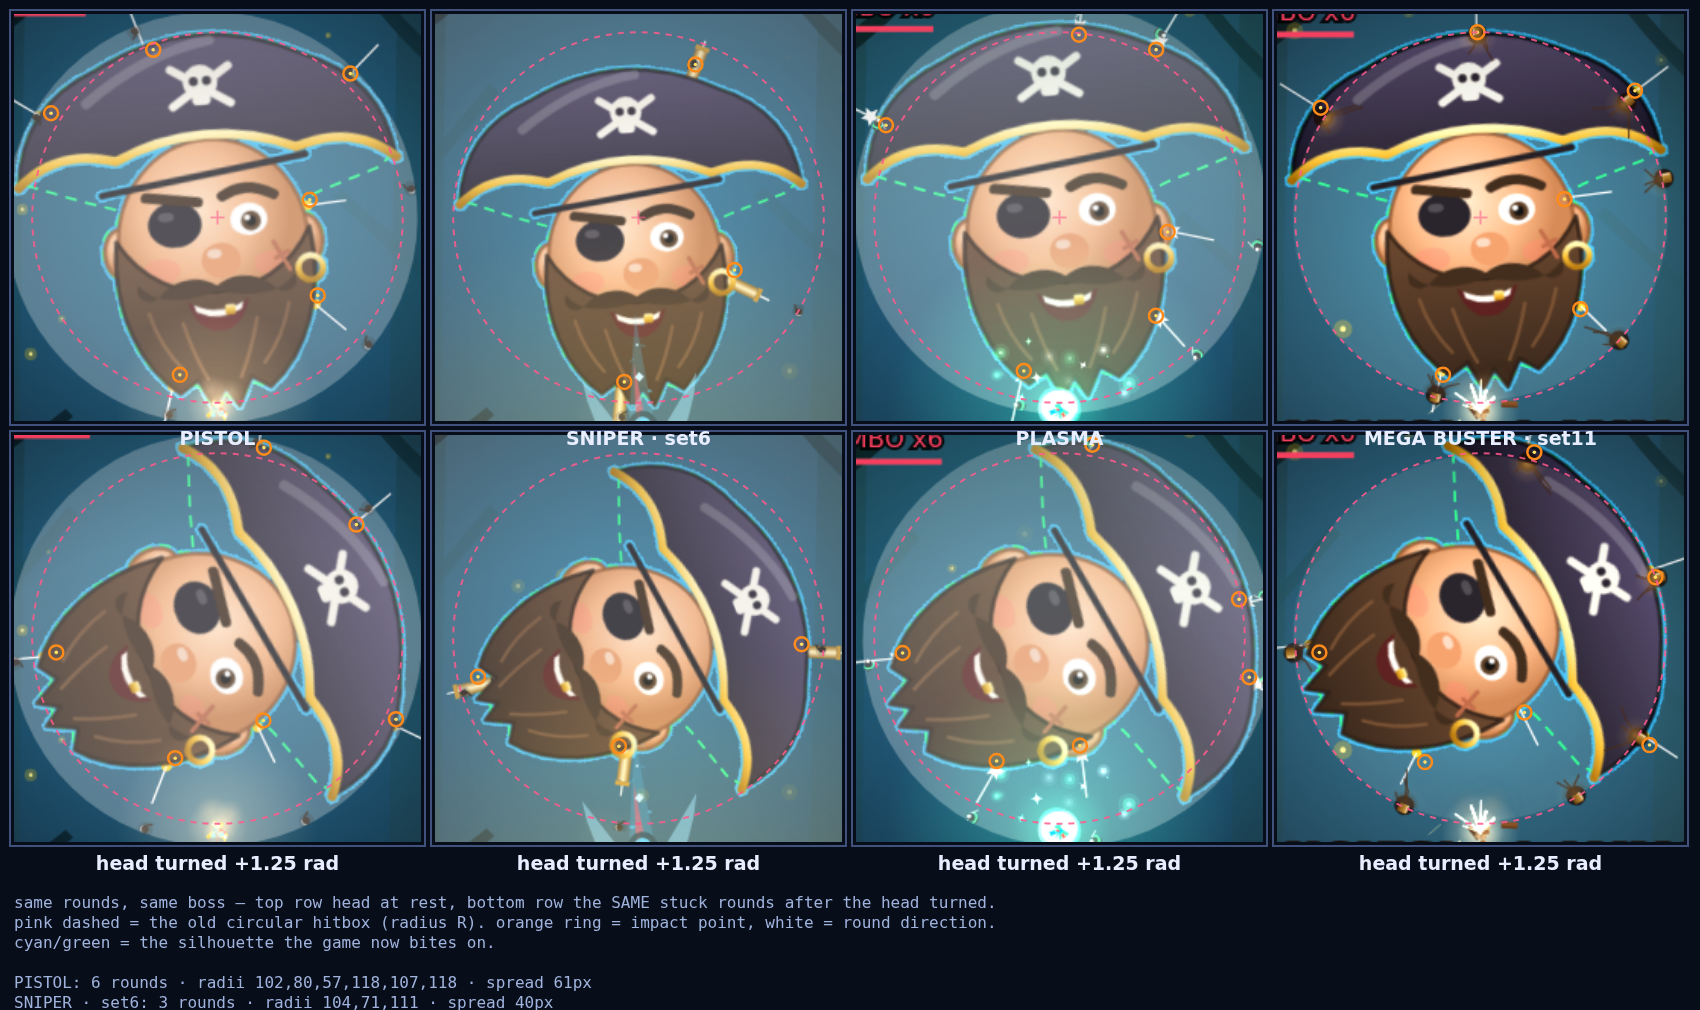
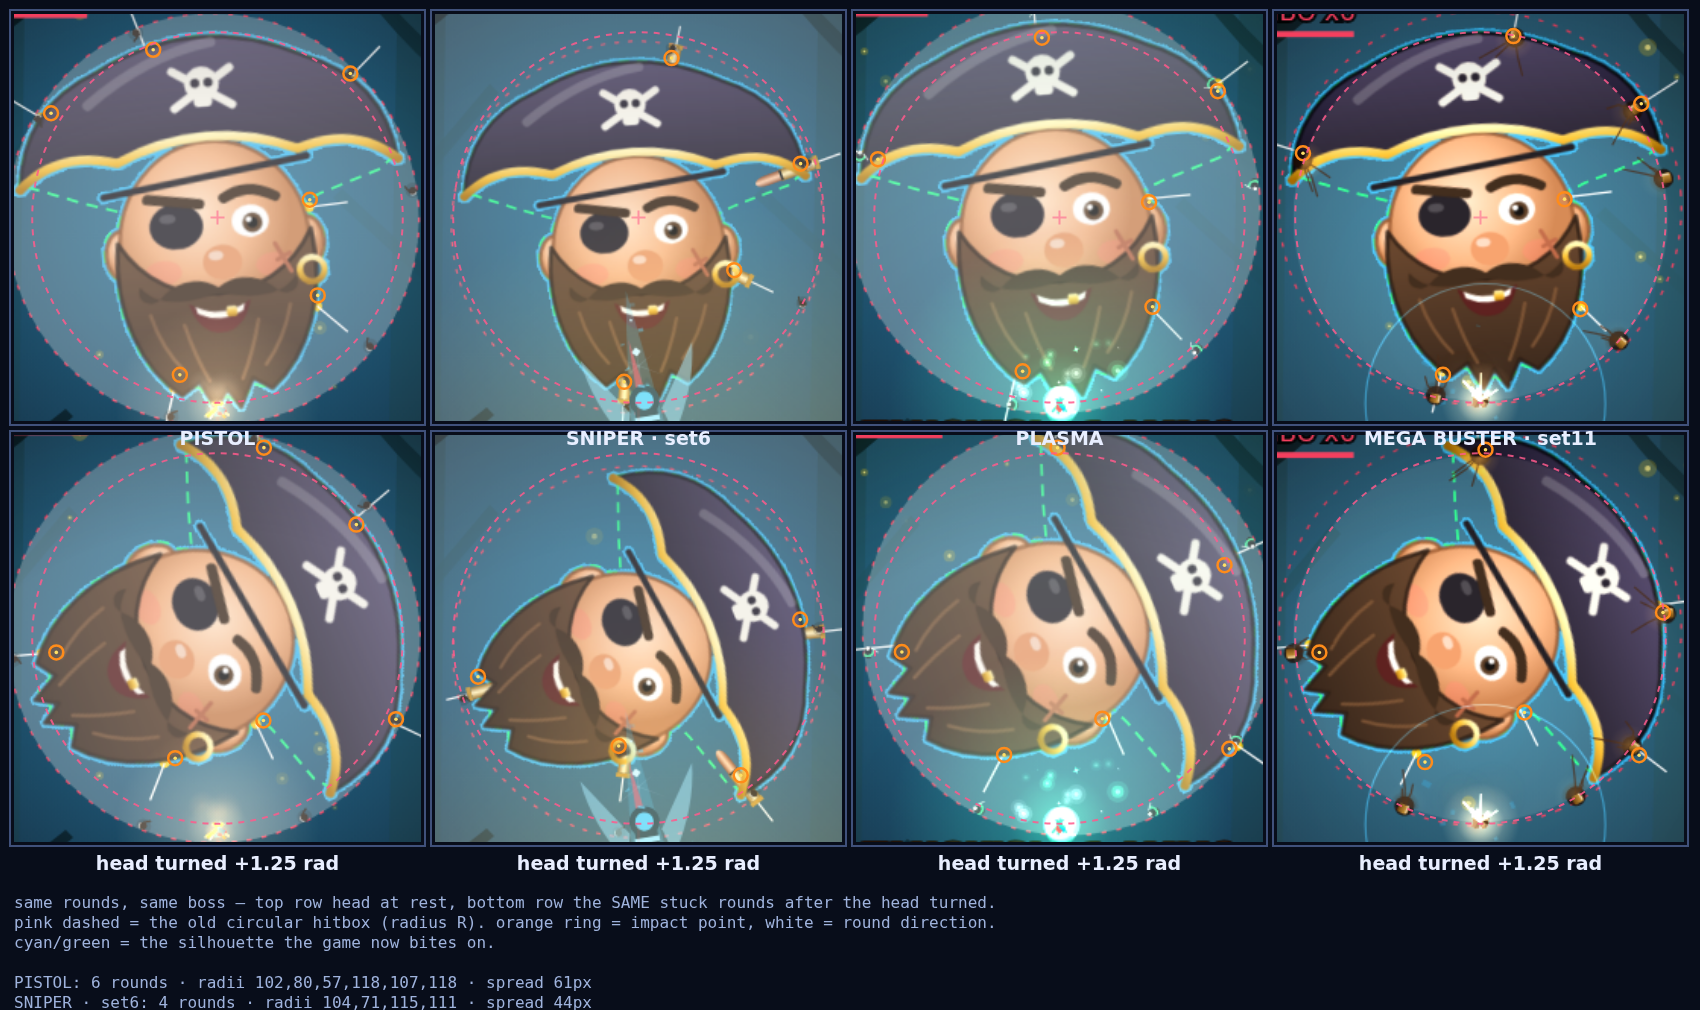
fix(sga): the last circle in the boss' stuck art is gone
- slide 2's artist placed every pin of every branch (black hole, shark, stone,
  drop, rainbow bolt, shell, grenade, rocket) at one radius: it now carries the
  depth the round actually bit (SetTwoPin.r from px/py).
- Grow Ray: the head grows under rounds that are already in it; their
  artwork-local spots now scale with the radius, and the blit pad scales with
  it too, so the mask frame and the drawn frame stay the same frame.
- stuck rounds sink 72% on a boss (Perfect Shot hangs 28% out, edgeTop bh*.28),
  so a round reads as planted in the head instead of resting on a rim.
- ?hitbox=1 now also draws the OLD circular hitbox in red, next to the cyan
  silhouette, so the difference is visible in the running game.
- audit: tools/auditBossAttachment.ts fires 102 weapons x 5 art variants
  (510 configs) into the head: 0 landings off the drawing.
- tests 541/541; proof parity-proof/gameA-boss-embed-before-after.png

diff --git a/tools/auditBossAttachment.ts b/tools/auditBossAttachment.ts
@@ -1,0 +1,102 @@
+/**
+ * Every weapon x every art effect, fired into a boss: does anything land off the
+ * drawing? Run `npx tsx tools/auditBossAttachment.ts [from] [to]` in slices to
+ * keep memory flat; the whole list is 102 weapons x 5 art variants.
+ */
+import { createCanvas, Path2D, loadImage } from '@napi-rs/canvas';
+import { DOMParser } from '@xmldom/xmldom';
+import React from 'react';
+import { renderToStaticMarkup } from 'react-dom/server';
+import { HeadArt } from '../src/games/perfect-shot/play/HeadArt';
+import { Game } from '../src/games/gunhit/game/Game';
+import { installSilentAudio } from './supportAudioSilent';
+import { setGunEffect, setGunVariant } from '../src/games/gunhit/game/art/gunVariants';
+
+const g = globalThis as unknown as Record<string, any>;
+g.Path2D = Path2D; g.DOMParser = DOMParser;
+g.HTMLCanvasElement ??= createCanvas(2, 2).constructor;
+g.document = { createElement: (t: string) => (t === 'canvas' ? createCanvas(64, 64) : { style: {} }), visibilityState: 'visible', addEventListener: () => {} };
+g.Image ??= class { width = 1; height = 1; set src(_s: string) {} };
+g.requestAnimationFrame = () => 0; g.cancelAnimationFrame = () => {};
+installSilentAudio();
+g.window = Object.assign(g.window ?? {}, {
+  setTimeout, clearTimeout, setInterval: () => 0, clearInterval: () => undefined,
+  addEventListener: () => undefined, removeEventListener: () => undefined,
+  devicePixelRatio: 1, innerWidth: 420, innerHeight: 750,
+  matchMedia: () => ({ matches: false, addEventListener: () => {}, removeEventListener: () => {} }),
+});
+
+const IDS: string[] = ['pistol','ak47','nail','crossbow','plasma','laser','fish','rpg','cricket','electro','bazooka','freeze','golden','blackhole','slingshot','blowgun','shotgun','soaker','snowball','sniper','flamethrower','bubble','bamboo','banana','harpoon','chicken','confetti','seed','pizza','minigun','railgun','magnet','shrink','grow','pirate','card','dragon','gravity','honey','coconut','angklung','bee','yoyo','sakura','acid','keris','firework','anchor','shark','ghost','ufo','rainbow','meteor','diamond','moonbeam','storm','pencil','sandal','paintball','wand','ruby','emerald','sapphire','crystal','beerifle','buster','holy','unicorn','obliterator','coingun','photon_saber','gauntlet_cannon','ironman_hand','pulse_rifle','cryo_blaster','hyperdrive','quantum_destabilizer','blaster','xeno','dora','pred','longbow','mp5','tesla_rifle','ion_smg','phaser','yautja','identity_disc','proton_pack','mega_buster','harmonic_disruptor','absolute_zero','helios_flare','chrono_rifle','orbital_beacon','helix_pulsar','singularity','prism_lance','nano_swarm','heat_ray'];
+const EFFECTS = ['original', 'new', 'set7', 'set9', 'set11'];
+const W = 420, H = 750;
+const svg = renderToStaticMarkup(React.createElement(HeadArt, { kind: 'pirate' as any }));
+const image = await loadImage(Buffer.from(svg));
+
+function make() {
+  const cv = createCanvas(W, H);
+  const ctx = cv.getContext('2d');
+  const shim = { width: W, height: H, style: {}, getBoundingClientRect: () => ({ width: W, height: H, left: 0, top: 0 }), getContext: () => ctx, addEventListener: () => {}, removeEventListener: () => {} } as unknown as HTMLCanvasElement;
+  const game = new Game(shim, { onGameOver: () => {} } as any) as unknown as Record<string, any>;
+  game.setWheelArtSource({ keyFor: () => 'boss|pirate', get: () => image, request: () => {}, markup: () => svg });
+  game.startAtLevel(5);
+  game.setWheelArt('boss|pirate', image, svg);
+  game.state = 'play';
+  for (let i = 0; i < 200; i++) game.update(1 / 60);
+  game.items = []; game.projs = [];
+  game.bossMaxHp = 1e9; game.bossHp = 1e9; game.level.ammo = 1e5;
+  return game;
+}
+function inkOf(game: any) {
+  const mask = game.artMask; const R = game.level.radius;
+  return (lx: number, ly: number) => {
+    const u = Math.floor(((lx / R / mask.span) + 1) * 0.5 * mask.size);
+    const v = Math.floor(((ly / R / mask.span) + 1) * 0.5 * mask.size);
+    if (u < 1 || v < 1 || u >= mask.size - 1 || v >= mask.size - 1) return false;
+    for (let dy = -1; dy <= 1; dy++) for (let dx = -1; dx <= 1; dx++) {
+      if (mask.alpha[(v + dy) * mask.size + (u + dx)] > 20) return true;
+    }
+    return false;
+  };
+}
+
+const bad: string[] = [];
+const quiet: string[] = [];
+let rows = 0;
+const from = Number(process.argv[2] ?? 0);
+const to = Number(process.argv[3] ?? IDS.length);
+for (const id of IDS.slice(from, to)) {
+  const game = make();
+  game.setWeapon(id);
+  for (const effect of EFFECTS) {
+    setGunVariant(id as never, 'original');
+    setGunEffect(id as never, effect as never);
+    game.items = [];
+    game.projs = [];
+    const ink = inkOf(game);
+    const radii: number[] = [];
+    const off: string[] = [];
+    for (const turn of [0, 1.2, 2.4, 3.6]) {
+      game.rot = turn;
+      const before = new Set(game.items as any[]);
+      for (let f = 0; f < 110; f++) {
+        game.ammoLeft = 99;
+        if (f % 10 === 0) game.press();
+        if (f % 10 === 7) game.onRelease();
+        game.update(1 / 60);
+        if ((game.items as any[]).some((it) => !before.has(it) && it.px !== undefined)) break;
+      }
+      game.onRelease();
+      const fresh = (game.items as any[]).find((it: any) => !before.has(it) && it.px !== undefined);
+      if (!fresh) continue;
+      radii.push(Math.round(Math.hypot(fresh.px, fresh.py)));
+      if (!ink(fresh.px, fresh.py)) off.push(`${id}/${effect}`);
+    }
+    rows++;
+    if (!radii.length) quiet.push(`${id}/${effect}`);
+    if (off.length) bad.push(`${id}/${effect} @ ${off.join(',')}`);
+  }
+  game.destroy();
+}
+console.log(`rows ${rows}  rounds-fired rows ${rows - quiet.length}  silent ${quiet.length}`);
+console.log('silent:', quiet.join(' '));
+console.log('off-drawing:', bad.length ? bad.join(' | ') : 'NONE');

diff --git a/src/games/gunhit/game/Game.ts b/src/games/gunhit/game/Game.ts
@@ -1447,6 +1447,8 @@ export class Game {
   private burnTick = 0;
   private spikeOffT = 0;
   private targetR = 0;
+  /** Radius the face bitmap was baked at (`buildFace`), for pad scaling. */
+  private faceBaseR = 0;
   private faceR = 106;
   private portals: Portal[] = [];
   private glitchT = 0;
@@ -2891,6 +2893,10 @@ export class Game {
     const R = this.level.radius;
     const S = this.faceScale;
     const pad = this.level.boss ? 40 : 4;
+    // The bitmap is baked at this radius. The Grow Ray moves `level.radius`
+    // afterwards, so the geometry (mask, contour, impact points) is only in
+    // agreement with the art while the pad scales with it — see `facePadNow()`.
+    this.faceBaseR = R;
     const size = (R + pad) * 2;
     // Game B's own wheel artwork wins whenever it has been rasterised; the
     // canvas faces below stay as the instant fallback for the first frames.
@@ -3033,6 +3039,16 @@ export class Game {
       c.stroke(this.maskOutline);
       c.restore();
     }
+    // The old circular hitbox, for comparison: if any round sat on this ring the
+    // silhouette test would be broken. Nothing is ever placed on it.
+    c.save();
+    c.setLineDash([3, 6]);
+    c.strokeStyle = 'rgba(255,64,96,0.9)';
+    c.lineWidth = 1.2;
+    c.beginPath();
+    c.arc(0, 0, R, 0, TAU);
+    c.stroke();
+    c.restore();
     // the contour everything else uses
     c.strokeStyle = mask ? 'rgba(34,255,136,0.95)' : 'rgba(255,64,64,0.95)';
     c.lineWidth = 1.6;
@@ -4109,6 +4125,18 @@ export class Game {
    * spark, crack and burst is placed through this, so effects land on the
    * drawing instead of on a circle of radius R.
    */
+  /**
+   * The padding the face bitmap is blitted with, scaled by the same factor the
+   * wheel itself has grown. Keeping the pad proportional is what makes the art
+   * frame (mask, contour, impact points) equal to the drawn frame at any radius:
+   * the grow ray scales the head, and the collision scales with it.
+   */
+  private facePadNow(R = this.level.radius): number {
+    const pad = this.level.boss ? 40 : 4;
+    const base = this.faceBaseR || R;
+    return base > 0 ? pad * (R / base) : pad;
+  }
+
   private artToWorld(lx: number, ly: number) {
     let x = lx;
     let y = ly;
@@ -6591,7 +6619,21 @@ export class Game {
     }
     // grow ray
     if (this.targetR && this.state !== 'clear') {
+      const before = this.level.radius;
       this.level.radius += (this.targetR - this.level.radius) * Math.min(1, dt * 8);
+      const k = this.level.radius / before;
+      // The head has grown under the rounds that are already in it: their
+      // artwork-local spots (px/py) are measured in this radius' units, so they
+      // ride out with the drawing instead of drifting off it.
+      if (Math.abs(k - 1) > 1e-6) {
+        for (const it of this.items) {
+          if (it.px !== undefined && it.py !== undefined) {
+            it.px *= k;
+            it.py *= k;
+          }
+          if (it.r !== undefined) it.r *= k;
+        }
+      }
     }
     for (let i = this.portals.length - 1; i >= 0; i--) {
       this.portals[i].life -= dt;
@@ -8614,8 +8656,11 @@ export class Game {
           const sc = it.scale ?? 1;
           const totalWeaponLen = it.type === 'old' ? BLEN : (getWeapon(it.w || 'pistol').stick + 12);
           const len = totalWeaponLen;
-          // Masuk lebih dalam hingga hanya terlihat setengah (50% tertanam di dalam papan)
-          const embedDepth = totalWeaponLen * 0.5;
+          // Masuk lebih dalam hingga hanya terlihat setengah (50% tertanam di
+          // dalam papan). Di boss, Perfect Shot menanam 72 % — hanya 28 % yang
+          // menonjol keluar dari gambar (`edgeTop(a, bh * 0.28)`), sehingga
+          // peluru terbaca menancap di kepala, bukan duduk di tepi roda.
+          const embedDepth = totalWeaponLen * (this.level.boss ? 0.72 : 0.5);
           const pencilEmbedBonus = it.w === 'pencil' ? Math.sin(it.angle * 13) * 5 : 0;
           const itemR = it.px !== undefined && it.py !== undefined
             ? Math.hypot(it.px, it.py)
@@ -8766,7 +8811,7 @@ export class Game {
       // Slide 3 draws its ordinary stuck rounds before its wheel face, so the
       // part buried in the wood is hidden.
       if (s7w) s7w.drawStuck(c, R, false);
-      const facePad = this.level.boss ? 40 : 4;
+      const facePad = this.facePadNow(R);
       if (this.rock) {
         this.rock.draw(c, R, this.time);
         const sc = R / 196;
@@ -8802,6 +8847,8 @@ export class Game {
           if (it.type !== 'bullet' || !it.setTwo) continue;
           pins.push({
             a: it.angle,
+            // A boss has no rim: the pin sits at the pixel its round bit.
+            r: it.px !== undefined && it.py !== undefined ? Math.hypot(it.px, it.py) : undefined,
             hue: it.hue ?? 28,
             seed: (it.angle * 3.7) % 10,
             flash: Math.max(0, 1 - it.age * 5),

diff --git a/src/games/gunhit/game/setTwoLook.ts b/src/games/gunhit/game/setTwoLook.ts
@@ -34,6 +34,12 @@ const hsl = (h: number, s: number, l: number, a = 1) =>
 export interface SetTwoPin {
   /** Where on the rim it landed, in wheel-local radians. */
   a: number;
+  /**
+   * How deep it bit, in canvas px from the centre. A boss has no rim: the round
+   * stops on the drawing, so the pin has to sit at the spot it struck instead of
+   * on a circle of radius `r`.
+   */
+  r?: number;
   hue: number;
   seed: number;
   /** 1 right after the hit, then cools to 0 over ~0.45s. */
@@ -457,8 +463,10 @@ export function drawSetTwoPins(
     for (const p of pins) {
       c.save();
       c.rotate(p.a);
+      // The pin sits where its own round bit; `r` is only the flat-wheel rim.
+      const pr = p.r ?? r;
       if (weapon === "blackhole") {
-        c.translate(r + 2, 0);
+        c.translate(pr + 2, 0);
         drawOrb(c, p.hue, 11.5, time, p.hue * 0.7);
         if (p.flash > 0) {
           c.fillStyle = `rgba(255,255,255,${p.flash * 0.65})`;
@@ -478,13 +486,13 @@ export function drawSetTwoPins(
         // shark clamped onto the board, tail wiggling, jaws snapping shut on bite
         const wig = Math.sin(time * 6 + p.seed * 8) * 0.028 * (0.4 + p.bite);
         c.rotate(wig);
-        c.translate(r - 3, 0);
+        c.translate(pr - 3, 0);
         const snap = Math.sin(Math.min(1, p.bite) * Math.PI) * 0.4;
         const idle = Math.max(0, Math.sin(time * 1.6 + p.seed * 9)) * 0.07;
         drawShark(c, p.hue, 0.16 + snap + idle, time, p.seed, p.flash);
       } else if (bbW) {
         // stone embedded in the wood, half-buried
-        c.translate(r + 2, 0);
+        c.translate(pr + 2, 0);
         drawStone(c, p.hue, 13, time * 0.3, p.seed, p.flash);
         // wooden splinter ring around fresh impacts
         if (p.bite > 0.15) {
@@ -496,14 +504,14 @@ export function drawSetTwoPins(
         }
       } else if (sqW) {
         // water blob stuck on the board, wobbling
-        c.translate(r + 4, 0);
+        c.translate(pr + 4, 0);
         c.rotate(-Math.PI / 2);
         const squash = 1 + Math.sin(time * 7 + p.seed * 8) * 0.06 + p.bite * 0.15;
         c.scale(squash, 1 / squash);
         drawDrop(c, p.hue, 11.5, time, p.seed, p.flash);
       } else if (rwW) {
         // rainbow laser bolt lodged tip-first, humming with spectrum energy
-        c.translate(r - 4, 0);
+        c.translate(pr - 4, 0);
         const jig = Math.sin(time * 10 + p.seed * 9) * 0.012;
         c.rotate(jig);
         const pop = 1 + p.bite * 0.25;
@@ -512,7 +520,7 @@ export function drawSetTwoPins(
       } else if (bzW) {
         // bazooka shell rammed nose-first into armor — crater + molten rim + smoke
         const sink = (1 - Math.min(1, p.bite * 1.6)) * 2;
-        c.translate(r - 5 - sink, 0);
+        c.translate(pr - 5 - sink, 0);
         const jig = Math.sin(time * 9 + p.seed * 8) * 0.014 * (0.4 + p.bite);
         c.rotate(jig);
         // scorched crater behind the shell (cools from white to black)
@@ -554,7 +562,7 @@ export function drawSetTwoPins(
       } else if (rpW) {
         // RPG grenade pierced deep — star-shaped breach + white-hot jet hole
         const sink = (1 - Math.min(1, p.bite * 1.6)) * 3;
-        c.translate(r - 7 - sink, 0);
+        c.translate(pr - 7 - sink, 0);
         const jig = Math.sin(time * 8 + p.seed * 7) * 0.014 * (0.4 + p.bite);
         c.rotate(jig);
         const ck = Math.min(1, p.bite * 1.5);
@@ -603,7 +611,7 @@ export function drawSetTwoPins(
           c.stroke();
         }
       } else {
-        c.translate(r - 6, 0);
+        c.translate(pr - 6, 0);
         drawRocketShape(c, p.hue, p.flash);
       }
       c.restore();

diff --git a/tests/gunhit-boss-hitbox-silhouette.test.ts b/tests/gunhit-boss-hitbox-silhouette.test.ts
@@ -260,3 +260,26 @@ test('every weapon slide bites the artwork, never the old circle', async () => {
     game.destroy();
   }
 });
+
+/**
+ * The Grow Ray enlarges the head mid-stage. Artwork-local spots must ride out
+ * with the drawing: a round stuck before the growth may not drift off it.
+ */
+test('a round stays on the drawing while the head grows under it', async () => {
+  const { game, kind } = await bossStage(5);
+  game.setWeapon('grow');
+  let it: any = null;
+  for (const deg of [270, 250, 300, 90, 210]) {
+    it = shootAtLocal(game, (deg * Math.PI) / 180);
+    if (it) break;
+  }
+  assert.ok(it, `${kind}: a grow round bit into the head`);
+  assert.ok(maskInk(game, it.px, it.py), `${kind}: it bit the drawing`);
+  const R0 = game.level.radius as number;
+  // grow the target the way the weapon does, then let the radius ease in
+  game.targetR = R0 + 24;
+  for (let i = 0; i < 90; i++) game.update(1 / 60);
+  assert.ok((game.level.radius as number) > R0 + 12, `${kind}: the head really grew`);
+  assert.ok(maskInk(game, it.px, it.py), `${kind}: the round is still on the drawing after the growth`);
+  game.destroy();
+});
